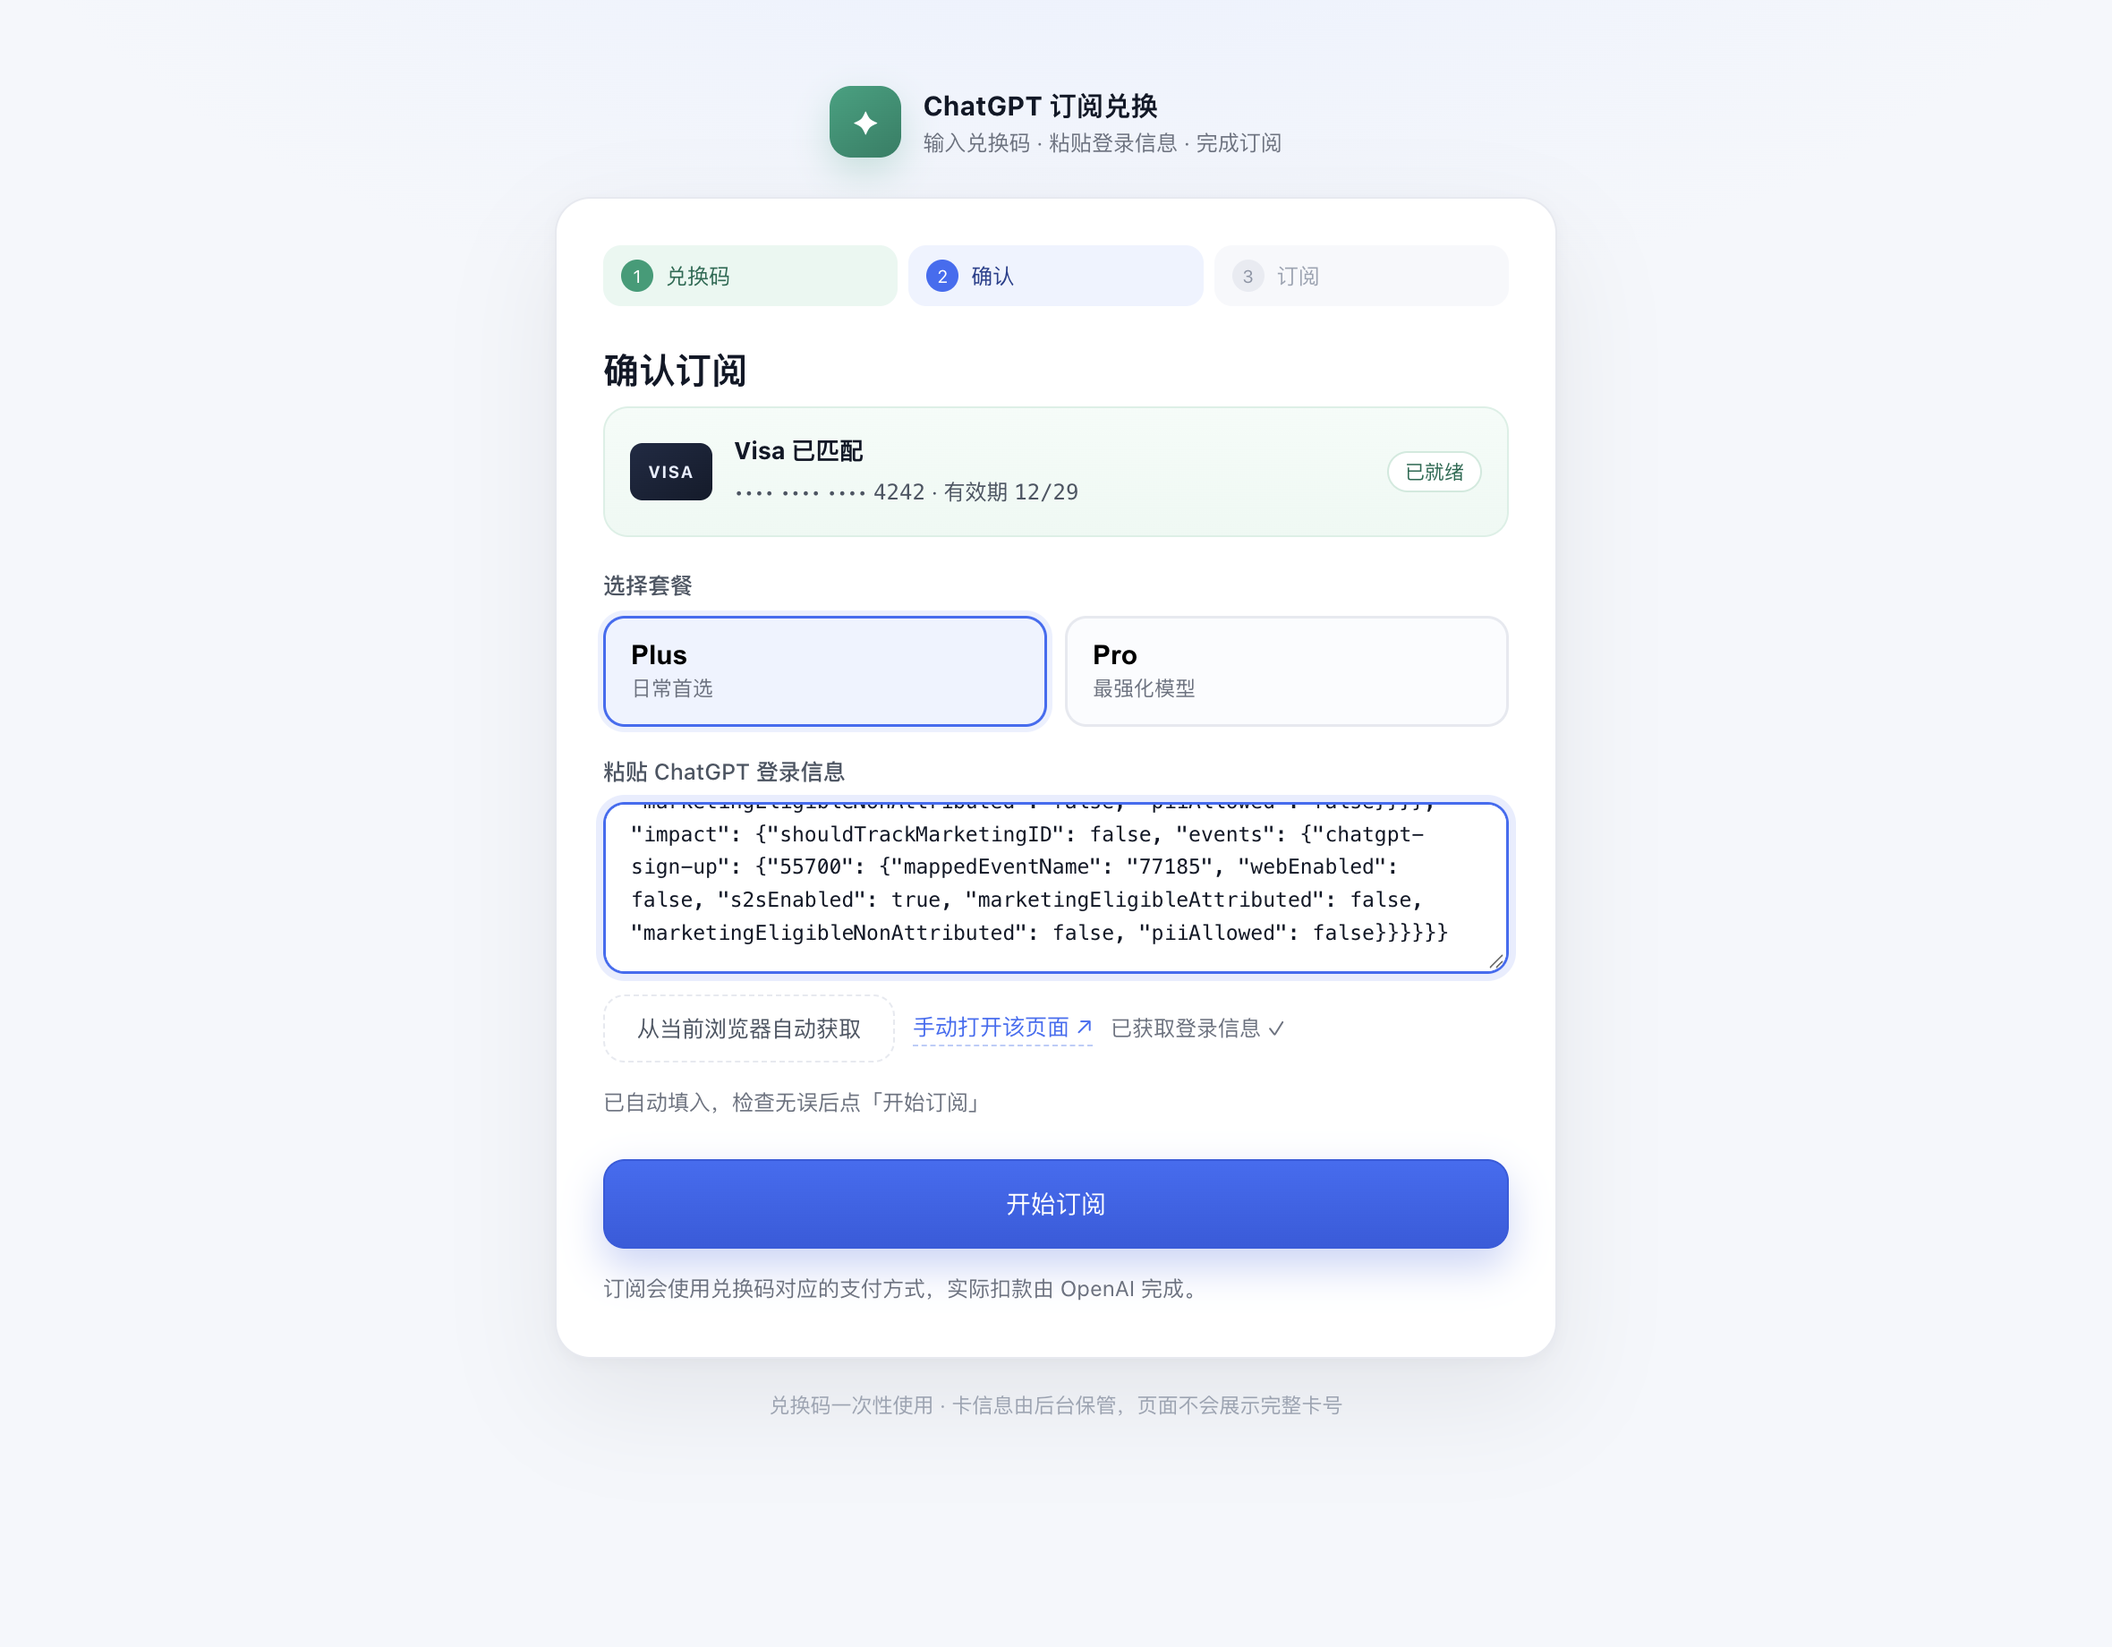
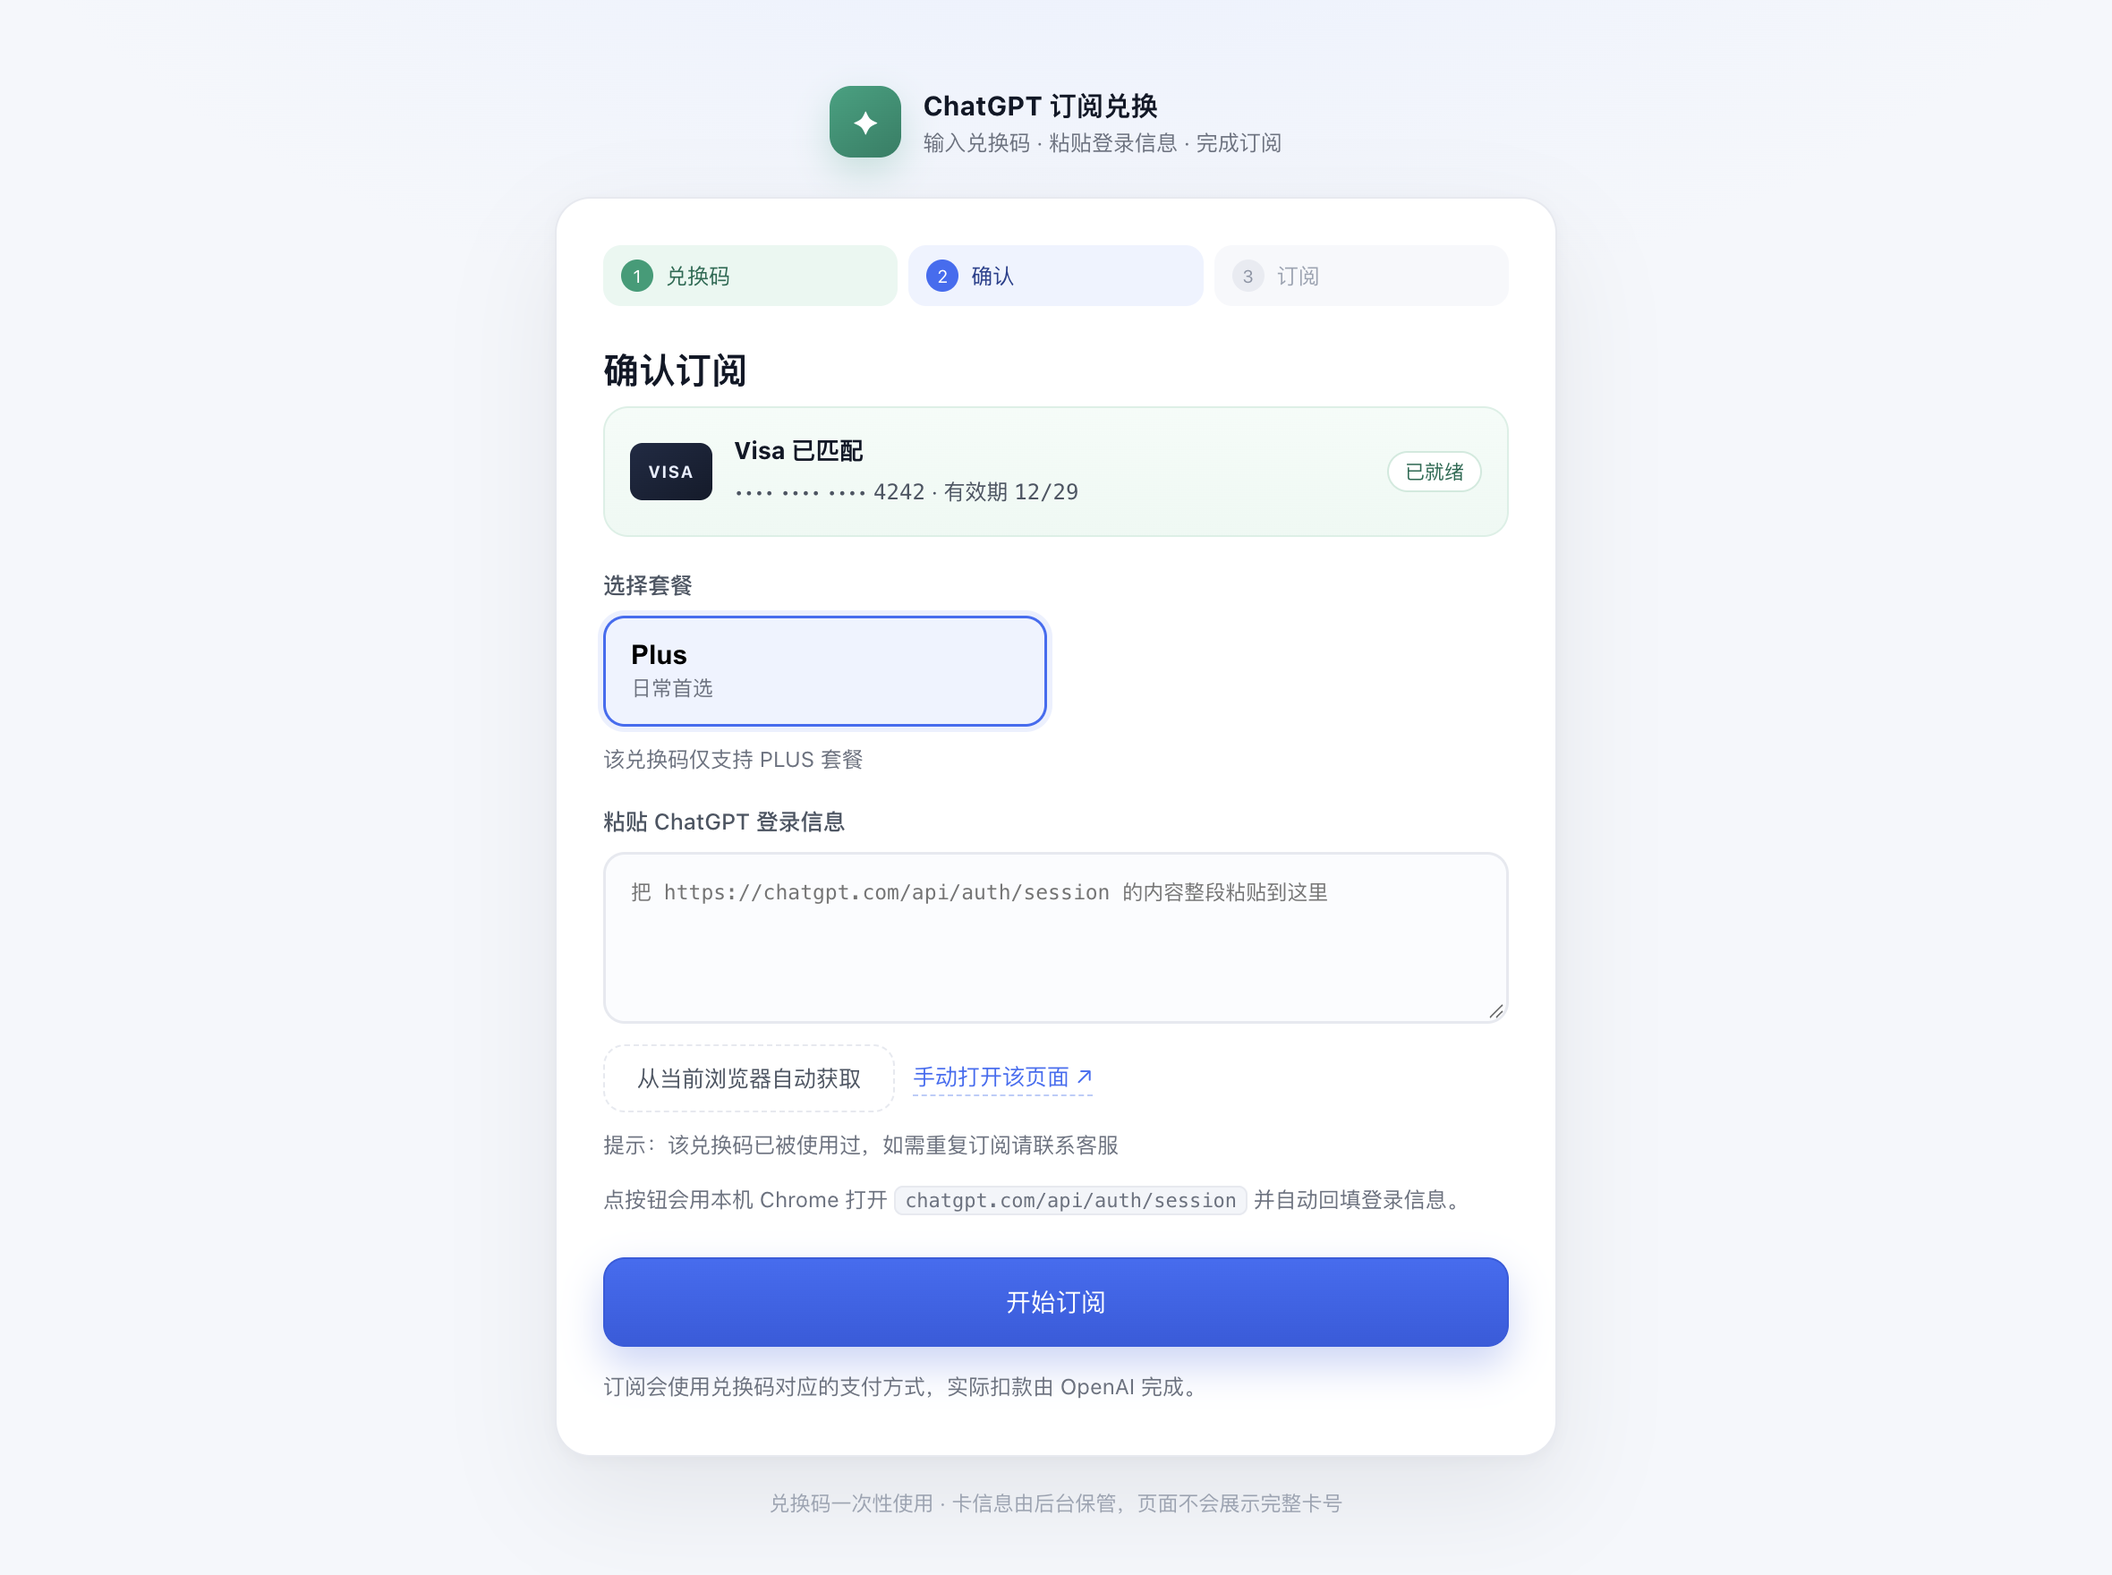
feat: 会话持久化 + 卡限定可用套餐
- admin_auth: 会话写入 data/sessions.json，重启服务不掉登录，过期自动清理
- 卡新增 plans 字段：后台可勾选这张卡只能开 Plus / 只能开 Pro / 都可
- 客户页按兑换码对应的卡过滤套餐，后端二次校验，选错直接拒绝
- 修复：Chrome 代理绕过列表写错（<-loopback> 表示连本机也走代理），
  改为 127.0.0.1;localhost;::1，并在中继里强制本机直连

diff --git a/web/app.js b/web/app.js
@@ -213,6 +213,14 @@ function cardRow(c) {
     <div class="brand-chip ${esc(c.brand)}">${brandMap[c.brand] || "CARD"}</div>
     <div class="card-main">
       <div class="card-num">${esc(c.masked)}</div>
+      <div class="card-plans">
+        <span>可用套餐</span>
+        ${["plus", "pro"].map((pl) => `
+          <label class="plan-toggle ${(c.plans || []).includes(pl) ? "on" : ""}">
+            <input type="checkbox" data-cardplan="${esc(c.id)}" value="${pl}"
+              ${(c.plans || []).includes(pl) ? "checked" : ""} /> ${pl === "plus" ? "Plus" : "Pro"}
+          </label>`).join("")}
+      </div>
       <div class="card-code">
         <span>兑换码</span>
         <code>${esc(c.code || "—")}</code>
@@ -402,6 +410,9 @@ $("#rawInput").addEventListener("keydown", (e) => {
 function openCardModal(accountId) {
   $("#cardModal").classList.remove("hidden");
   $("#scrim").classList.add("on");
+  $("#newPlans").innerHTML = ["plus", "pro"].map((pl) =>
+    `<label><input type="checkbox" value="${pl}" checked> ${pl === "plus" ? "Plus" : "Pro"}</label>`
+  ).join("");
   $("#newAccounts").innerHTML = state.accounts.length
     ? state.accounts.map((a) =>
         `<label><input type="checkbox" value="${esc(a.id)}"
@@ -489,6 +500,7 @@ $("#cardSave").addEventListener("click", async () => {
     line1: $("#newLine1").value.trim(),
     label: $("#newLabel").value.trim(),
     accountIds: [...document.querySelectorAll("#newAccounts input:checked")].map((x) => x.value),
+    plans: [...document.querySelectorAll("#newPlans input:checked")].map((x) => x.value),
   };
   if (!payload.number.replace(/\D/g, "") || !payload.exp || !payload.cvc) {
     return toast("卡号 / 有效期 / 安全码必填", "bad");
@@ -512,6 +524,24 @@ $("#cardSave").addEventListener("click", async () => {
 });
 
 $("#cardList").addEventListener("change", async (e) => {
+  const planBox = e.target.closest("[data-cardplan]");
+  if (planBox) {
+    const cardId = planBox.dataset.cardplan;
+    const plans = [...document.querySelectorAll(`[data-cardplan="${cardId}"]`)]
+      .filter((x) => x.checked).map((x) => x.value);
+    if (!plans.length) {
+      planBox.checked = true;
+      return toast("至少保留一个可用套餐", "bad");
+    }
+    try {
+      await api(`/api/cards/${encodeURIComponent(cardId)}`, {
+        method: "PATCH", body: JSON.stringify({ plans }),
+      });
+      toast("可用套餐已更新：" + plans.map((p) => p.toUpperCase()).join(" / "), "ok");
+      await loadAll();
+    } catch (err) { toast(err.message, "bad"); }
+    return;
+  }
   const box = e.target.closest("[data-bindacc]");
   if (!box) return;
   const cardId = box.dataset.bindacc;

diff --git a/web_customer/app.js b/web_customer/app.js
@@ -63,6 +63,7 @@ async function verify() {
     if (!d.ok) return showHint(d.error || "兑换码无效", "bad");
     state.code = code;
     state.card = d.card;
+    applyPlans(d.plans || ["plus", "pro"]);
     $("#cardBrandIcon").textContent = (d.card.brand || "CARD").toUpperCase().slice(0, 4);
     $("#cardLast4").textContent = d.card.last4 || "••••";
     $("#cardExp").textContent = d.card.exp || "--/--";
@@ -93,6 +94,17 @@ codeInput.addEventListener("keydown", (e) => {
 });
 
 /* ------------------------------- 第二步 ------------------------------- */
+function applyPlans(allowed) {
+  const all = $$(".plan");
+  all.forEach((b) => b.classList.toggle("hidden", !allowed.includes(b.dataset.plan)));
+  const first = all.find((b) => !b.classList.contains("hidden"));
+  state.plan = first ? first.dataset.plan : "plus";
+  all.forEach((b) => b.classList.toggle("selected", b === first));
+  $("#planNote").textContent = allowed.length === 1
+    ? `该兑换码仅支持 ${allowed[0].toUpperCase()} 套餐`
+    : "";
+}
+
 $$(".plan").forEach((b) => {
   b.addEventListener("click", () => {
     state.plan = b.dataset.plan;

diff --git a/web/style.css b/web/style.css
@@ -575,3 +575,16 @@ select.input { appearance: none; cursor: pointer; }
   background: var(--panel-2); border: 1px solid var(--line);
   border-radius: 8px; padding: 4px 10px;
 }
+
+/* 可用套餐开关 */
+.card-plans { display: flex; align-items: center; gap: 6px; font-size: 11.5px; color: var(--muted); }
+.plan-toggle {
+  display: inline-flex; align-items: center; gap: 5px;
+  font-size: 11.5px; color: var(--muted);
+  border: 1px solid var(--line-2); border-radius: 999px;
+  padding: 2px 9px; cursor: pointer; background: #fff;
+}
+.plan-toggle input { display: none; }
+.plan-toggle.on {
+  color: #24479e; background: var(--blue-soft); border-color: #cfdcff; font-weight: 600;
+}

diff --git a/web/index.html b/web/index.html
@@ -410,6 +410,10 @@
         <label class="field span2"><span>地址</span><input id="newLine1" placeholder="1-1-1 Chiyoda" /></label>
         <label class="field"><span>备注</span><input id="newLabel" placeholder="招商 Visa" /></label>
         <div class="field span2">
+          <span>可用套餐（客户只能选勾选的）</span>
+          <div id="newPlans" class="bind-menu" style="position:static"></div>
+        </div>
+        <div class="field span2">
           <span>绑定账号（可多选）</span>
           <div id="newAccounts" class="bind-menu" style="position:static;max-height:150px"></div>
         </div>

diff --git a/web_customer/index.html b/web_customer/index.html
@@ -58,6 +58,7 @@
             <b>Pro</b><span>最强化模型</span>
           </button>
         </div>
+        <p class="hint" id="planNote" style="margin:8px 0 0"></p>
       </div>
 
       <div class="field">

diff --git a/admin_auth.py b/admin_auth.py
@@ -9,11 +9,13 @@ import hmac
 import json
 import os
 import secrets
+import threading
 import time
 
 HERE = os.path.dirname(os.path.abspath(__file__))
 DATA_DIR = os.path.join(HERE, "data")
 AUTH_PATH = os.path.join(DATA_DIR, "auth.json")
+SESSION_PATH = os.path.join(DATA_DIR, "sessions.json")
 INIT_PW_PATH = os.path.join(DATA_DIR, "初始密码.txt")
 
 ITERATIONS = 120000
@@ -21,6 +23,32 @@ SESSION_TTL = 12 * 3600
 COOKIE_NAME = "td_session"
 
 _sessions = {}
+_session_lock = threading.Lock()
+
+
+def _load_sessions():
+    """启动时恢复未过期的会话，重启服务不再掉登录。"""
+    try:
+        with open(SESSION_PATH, encoding="utf-8") as f:
+            data = json.load(f)
+    except Exception:
+        return
+    now = time.time()
+    for token, item in (data.get("sessions") or {}).items():
+        if isinstance(item, dict) and item.get("exp", 0) > now:
+            _sessions[token] = item
+
+
+def _save_sessions():
+    try:
+        os.makedirs(DATA_DIR, exist_ok=True)
+        tmp = SESSION_PATH + ".tmp"
+        with open(tmp, "w", encoding="utf-8") as f:
+            json.dump({"sessions": _sessions}, f, ensure_ascii=False, indent=2)
+        os.chmod(tmp, 0o600)
+        os.replace(tmp, SESSION_PATH)
+    except Exception:
+        pass
 
 
 def _hash(password, salt):
@@ -70,7 +98,9 @@ def verify(user, password):
 
 def create_session(user):
     token = secrets.token_urlsafe(32)
-    _sessions[token] = {"user": user, "exp": time.time() + SESSION_TTL}
+    with _session_lock:
+        _sessions[token] = {"user": user, "exp": time.time() + SESSION_TTL}
+        _save_sessions()
     return token, SESSION_TTL
 
 
@@ -81,13 +111,17 @@ def check_session(token):
     if not item:
         return None
     if item["exp"] < time.time():
-        _sessions.pop(token, None)
+        with _session_lock:
+            _sessions.pop(token, None)
+            _save_sessions()
         return None
     return item["user"]
 
 
 def revoke(token):
-    _sessions.pop(token or "", None)
+    with _session_lock:
+        _sessions.pop(token or "", None)
+        _save_sessions()
 
 
 def current_user(cookie_header):
@@ -99,3 +133,6 @@ def current_user(cookie_header):
         if k == COOKIE_NAME:
             return check_session(v)
     return None
+
+
+_load_sessions()

diff --git a/admin_server.py b/admin_server.py
@@ -36,7 +36,7 @@ from store import (  # noqa: F401
     DATA_DIR, SHOT_DIR, STORE_PATH, CARDS_PATH, luhn_ok, card_brand, mask_pan,
     load_cards, save_cards, public_card, normalize_exp, mask, load_store,
     save_store, public_account, gen_code, ensure_codes, migrate_cards,
-    card_account_ids, _store_lock,
+    card_account_ids, card_plans, _store_lock,
 )
 
 HERE = os.path.dirname(os.path.abspath(__file__))
@@ -430,6 +430,8 @@ class Handler(BaseHTTPRequestHandler):
             "city": (body.get("city") or "").strip(),
             "line1": (body.get("line1") or "").strip(),
             "accountIds": account_ids,
+            "plans": [p for p in (body.get("plans") or ["plus", "pro"]) if p in ("plus", "pro")]
+                     or ["plus", "pro"],
             "status": "active",
             "createdAt": int(time.time()),
             "lastUsedAt": None,
@@ -467,6 +469,9 @@ class Handler(BaseHTTPRequestHandler):
             card["accountIds"] = sorted(ids)
         if "status" in body and body["status"] in ("active", "used", "disabled"):
             card["status"] = body["status"]
+        if isinstance(body.get("plans"), list):
+            plans = [p for p in body["plans"] if p in ("plus", "pro")]
+            card["plans"] = plans or ["plus", "pro"]
         if "label" in body:
             card["label"] = (body["label"] or "").strip()
         if "holder" in body:

diff --git a/customer_server.py b/customer_server.py
@@ -31,7 +31,7 @@ from http.server import BaseHTTPRequestHandler, HTTPServer
 import cgpt
 from browser import BROWSER
 from store import (  # noqa: F401
-    SHOT_DIR, customer_card_view, ensure_codes, find_card_by_code,
+    SHOT_DIR, card_plans, customer_card_view, ensure_codes, find_card_by_code,
     load_cards, load_store, save_cards,
 )
 
@@ -274,11 +274,12 @@ class Handler(BaseHTTPRequestHandler):
             return self._send(200, {"ok": False, "error": "兑换码无效，请核对后重试"})
         view = customer_card_view(card)
         used = bool(card.get("codeUsedAt"))
+        allowed = card_plans(card)
         return self._send(200, {
             "ok": True,
             "card": view,
             "used": used,
-            "plans": ["plus", "pro"],
+            "plans": allowed,
         })
 
     def api_grab_session(self):
@@ -301,6 +302,9 @@ class Handler(BaseHTTPRequestHandler):
             return self._err("兑换码无效")
         if plan not in ("plus", "pro"):
             return self._err("请选择 Plus 或 Pro")
+        if plan not in card_plans(card):
+            return self._err("这个兑换码只能开通 %s" % " / ".join(
+                p.capitalize() for p in card_plans(card)))
         if not str(raw).strip():
             return self._err("请先提供 ChatGPT 登录信息")
 

diff --git a/store.py b/store.py
@@ -83,6 +83,9 @@ def migrate_cards():
     data = load_cards()
     changed = False
     for c in data["cards"]:
+        if not isinstance(c.get("plans"), list) or not c.get("plans"):
+            c["plans"] = list(VALID_PLANS)
+            changed = True
         if not isinstance(c.get("accountIds"), list):
             c["accountIds"] = card_account_ids(c)
             changed = True
@@ -134,6 +137,17 @@ def card_account_ids(card):
     return [old] if old else []
 
 
+VALID_PLANS = ("plus", "pro")
+
+
+def card_plans(card):
+    """这张卡允许买的套餐，默认两个都行。"""
+    plans = card.get("plans")
+    if not isinstance(plans, list) or not plans:
+        return list(VALID_PLANS)
+    return [x for x in plans if x in VALID_PLANS] or list(VALID_PLANS)
+
+
 def public_card(card, accounts=None):
     accounts = accounts or []
     ids = card_account_ids(card)
@@ -156,6 +170,7 @@ def public_card(card, accounts=None):
         "city": card.get("city", ""),
         "line1": card.get("line1", ""),
         "code": card.get("code", ""),
+        "plans": card_plans(card),
         "codeUsedAt": card.get("codeUsedAt"),
         "accountIds": ids,
         "accounts": linked,

diff --git a/browser.py b/browser.py
@@ -44,7 +44,7 @@ class Browser(object):
         extra = []
         if relay_alive():
             extra = ["--proxy-server=http://127.0.0.1:%d" % RELAY_PORT,
-                     "--proxy-bypass-list=<-loopback>"]
+                     "--proxy-bypass-list=127.0.0.1;localhost;::1"]
         self.proc = cgpt.launch_browser(
             self.port, self.profile, headless=False,
             log_path=os.path.join(HERE, "chrome.log"), extra_args=extra,

diff --git a/proxy_relay.py b/proxy_relay.py
@@ -177,6 +177,9 @@ def _open_via_socks(up, host, port):
 
 
 def open_target(host, port):
+    # 本机地址永远直连，避免把管理页/客户页也绕进代理
+    if host in ("127.0.0.1", "localhost", "::1"):
+        return socket.create_connection((host, port), timeout=20), b""
     up = parse_upstream(load_upstream())
     if not up:
         return socket.create_connection((host, port), timeout=20), b""

diff --git a/README.md b/README.md
@@ -17,7 +17,8 @@ ADMIN_USER=admin ADMIN_PASSWORD=你的密码 python3 admin_server.py --port 8899
 ```
 
 改密码：删掉 `data/auth.json` 重启（会重新生成），或直接用上面的环境变量。
-密码用 PBKDF2-SHA256（12 万次）加盐存储，会话是 HttpOnly Cookie，12 小时过期。
+密码用 PBKDF2-SHA256（12 万次）加盐存储，会话是 HttpOnly Cookie，12 小时过期，
+并持久化在 `data/sessions.json`（0600）——**重启服务不用重新登录**。
 
 ![管理后台](docs/ui_accounts.png)
 
